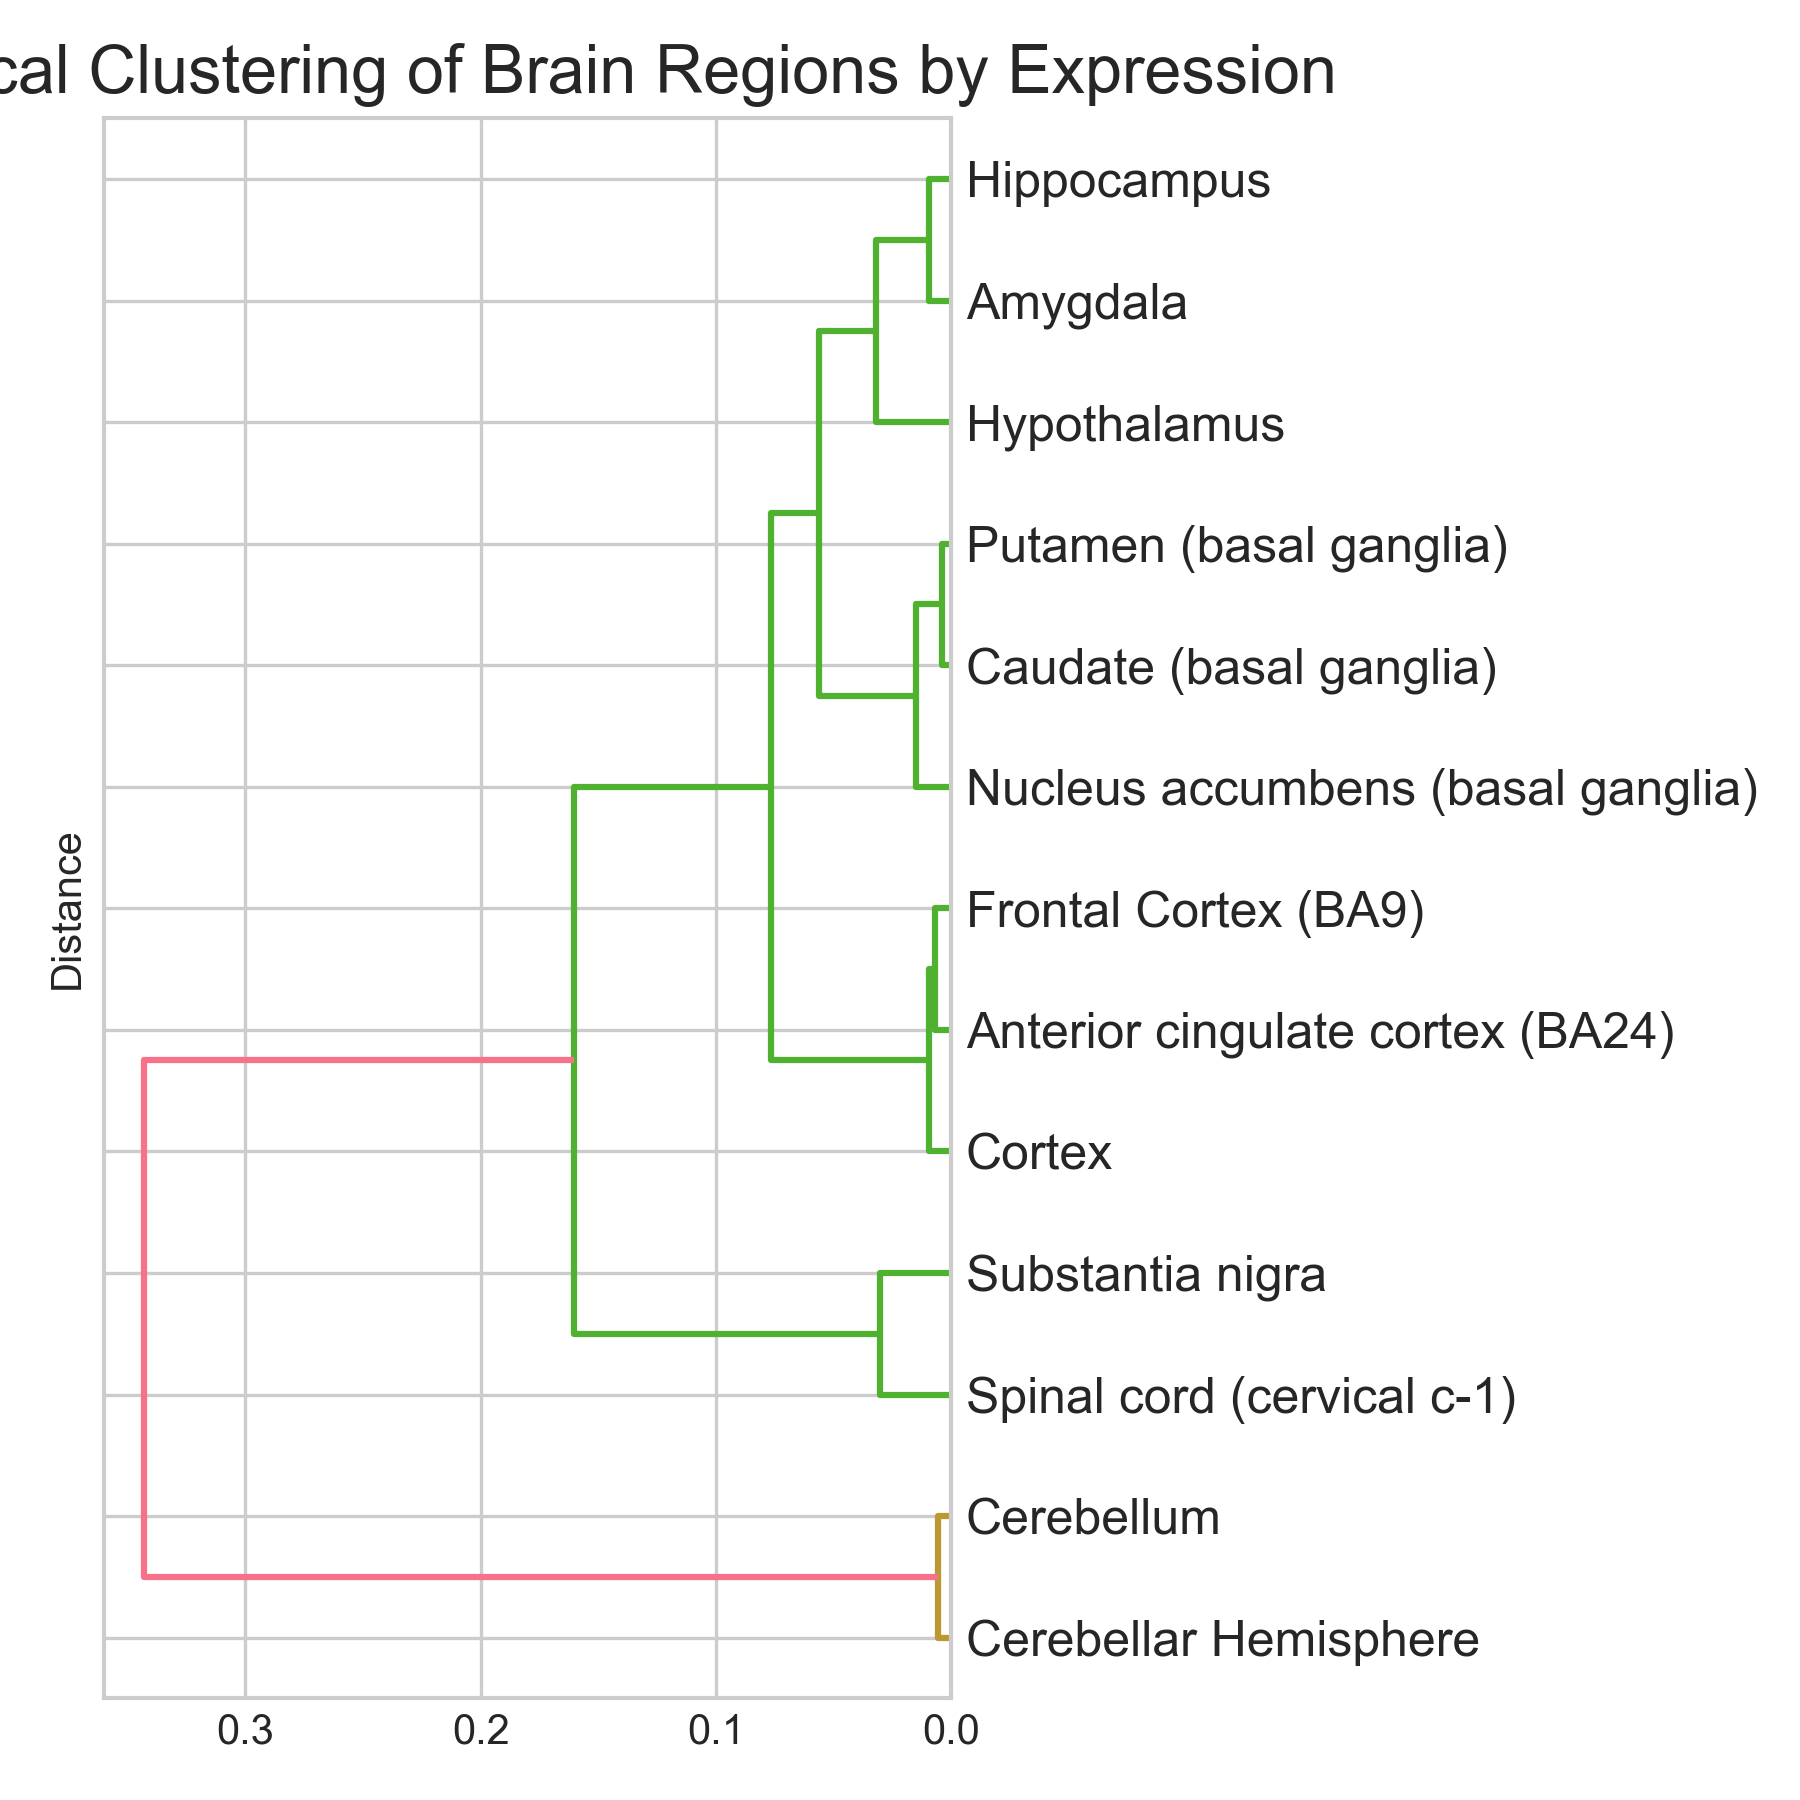
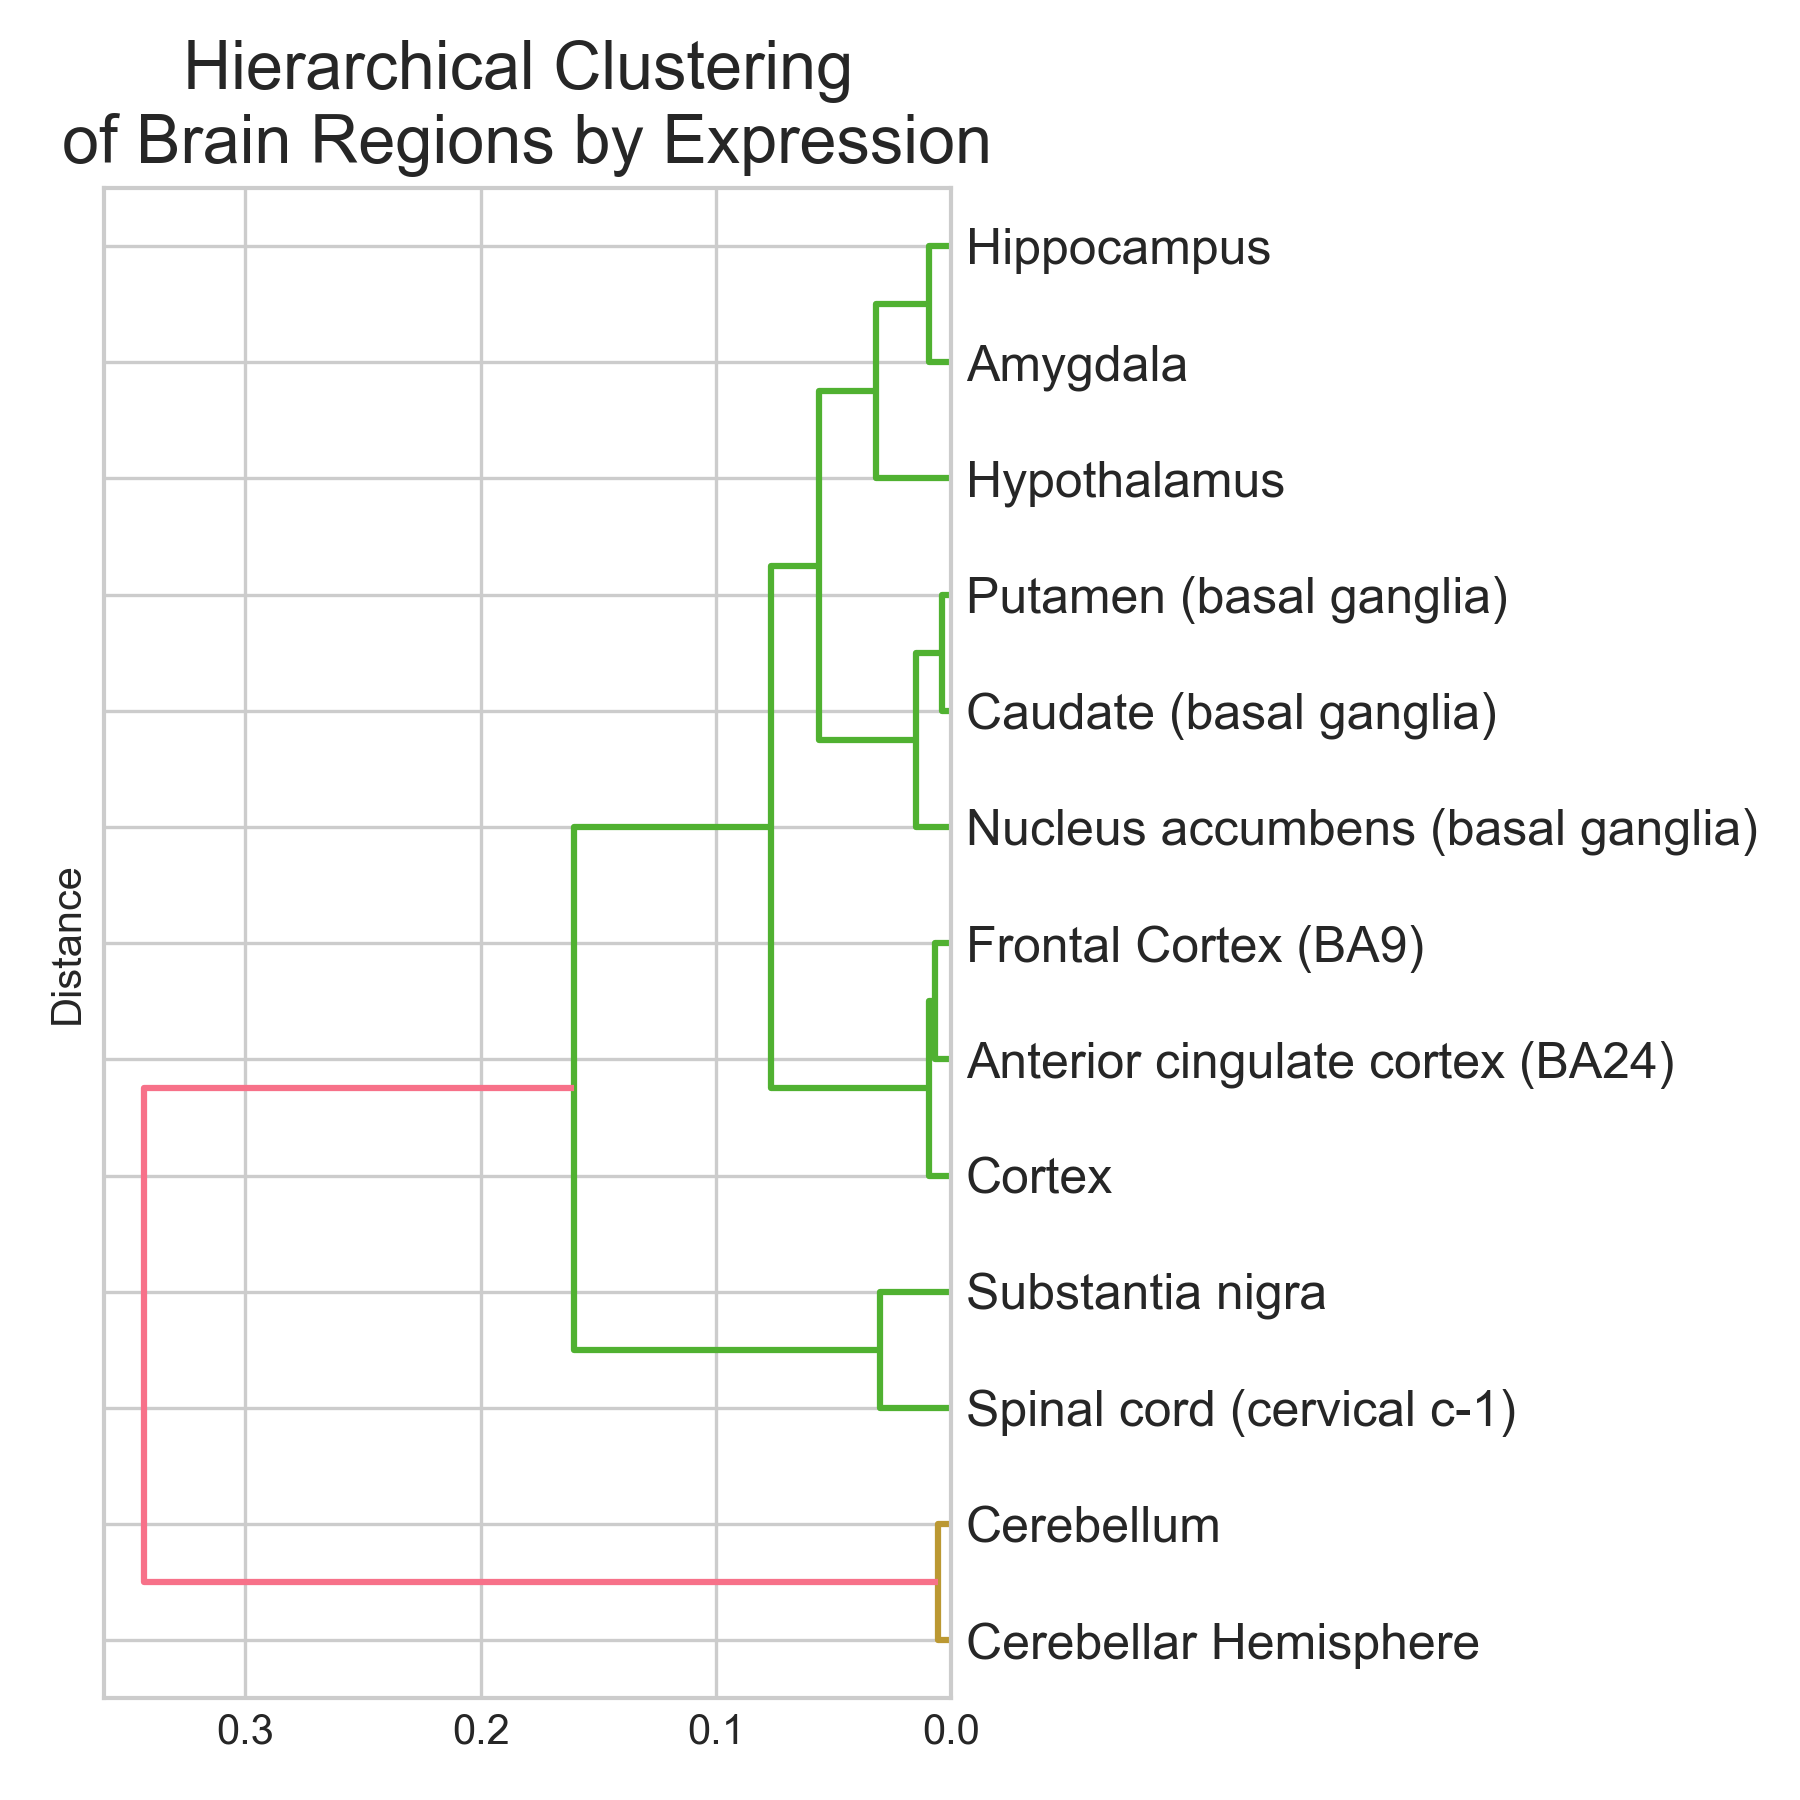
Fix dendrogram title

diff --git a/content/posts/2026-03-01-brain-region-classifier.md b/content/posts/2026-03-01-brain-region-classifier.md
@@ -3,6 +3,8 @@ title: "Classifying brain regions from gene expression with XGBoost"
 date: 2026-03-01
 description: "I trained an XGBoost classifier on GTEx bulk RNA-seq to distinguish 13 brain regions. It got 95% accuracy, and the top identified genes are also known tissue markers in neuroscience."
 tags: [transcriptomics, classification, neuroscience]
+cover:
+  image: images/2026-03-01-brain-region-classifier_files/02_region_dendrogram.png
 ---
 
 ## tl;dr
